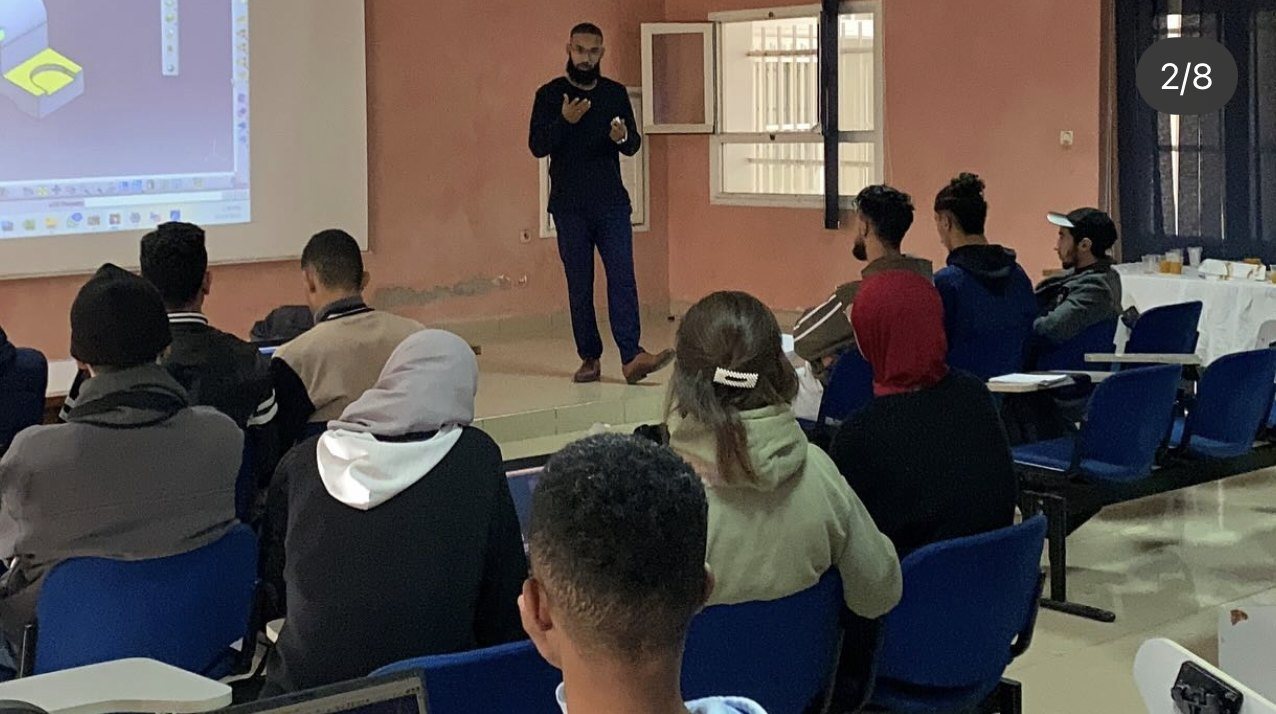
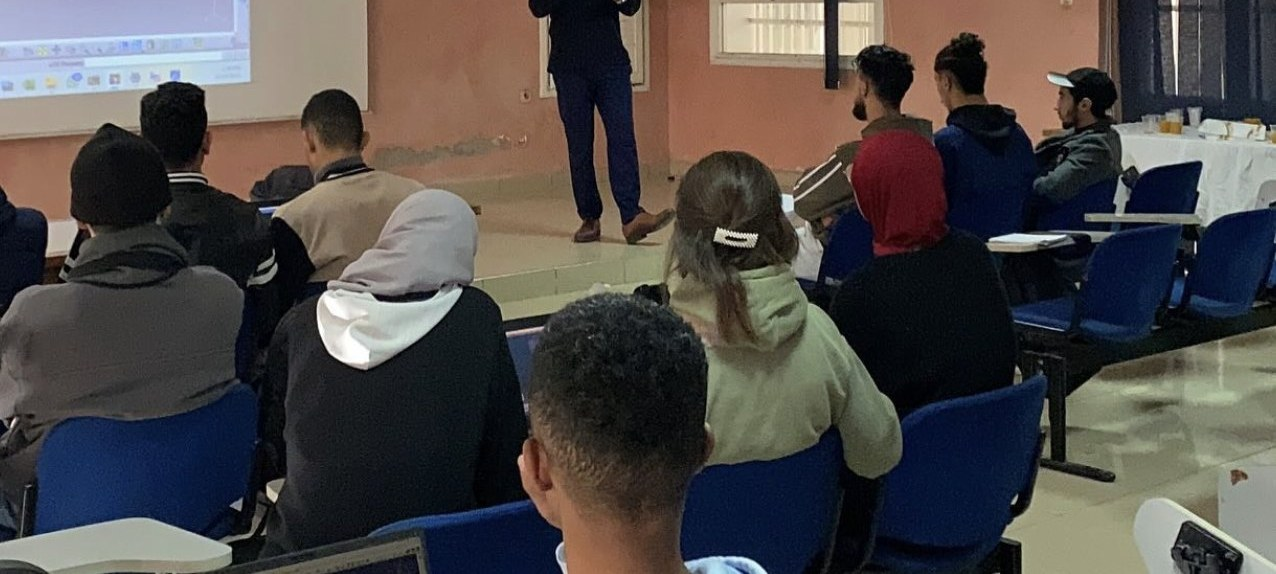
Remove Instagram overlays from photos; add three events
Removes a liker's profile picture and Instagram buttons and counters from
the event images. Adds the « Femmes Leaders à l'ère de l'IA » conference,
the Journée d'Excellence 2026 and the Machine Learning Training.

Claude-Session: https://claude.ai/code/session_01CVVNoWrYmJm1sqwUduYM2t

diff --git a/2ameca-site/src/data/contenus.ts b/2ameca-site/src/data/contenus.ts
@@ -28,8 +28,11 @@ export const CLUB_DEFAUT: Club = {
     { quand: 'Novembre 2025', quoi: '« The Career Workshop » avec Xperience, puis « Cap sur l’Espace ».', detail: 'CV et LinkedIn avec Ali El Harti, puis ingénierie aérospatiale avec Idir Loudaoui, en ligne.' },
     { quand: 'Décembre 2025', quoi: '1re édition de « De l’Amphi à l’Entreprise ».', detail: 'Cinq invités et une journée d’échanges avec des professionnels, à l’amphithéâtre de la FSAC.' },
     { quand: 'Décembre 2025', quoi: 'ANSYS Workshop, puis RISE : « Votre plan de carrière en 180 minutes ».', detail: 'Simulation avec Ayoub Elmouhri (Analytics Systems Africa), puis carrière avec Mohamed Reffadi (You & Me Consulting).' },
+    { quand: 'Mars 2026', quoi: 'Conférence « Femmes Leaders à l’ère de l’Intelligence Artificielle ».', detail: 'Pour la Journée internationale des droits des femmes, avec le Club Santé et d’autres clubs de la FSAC.' },
+    { quand: 'Avril 2026', quoi: '« Machine Learning Training » avec El Mehdi Lghaouch.', detail: 'Deux séances intensives en salle digitale de la FSAC, dans la série NEXTGEN AI, avec l’AI & DEV Community et la FSBM.' },
     { quand: 'Avril 2026', quoi: 'Formation Data Mining avec l’AI & DEV Community.', detail: 'Une séance de la série « NEXTGEN AI: Morocco Tech Series », en salle 17 de la FSAC.' },
     { quand: 'Octobre 2026', quoi: 'Journées portes ouvertes d’intégration.', detail: 'Trois jours pour accueillir les nouveaux étudiants de l’année 2026–2027.' },
+    { quand: 'Novembre 2026', quoi: '1re Journée d’Excellence 2AMECA.', detail: 'Rencontres, partage d’expériences, jeux et challenges, à l’amphithéâtre de la FSAC.' },
   ],
   valeurs: [
     { titre: 'Esprit citoyen', texte: 'Mettre nos compétences au service de la faculté et de la société : c’est le sens de notre devise.' },

diff --git a/2ameca-site/src/content/evenements/femmes-leaders-ia-2026.md b/2ameca-site/src/content/evenements/femmes-leaders-ia-2026.md
@@ -1,0 +1,30 @@
+---
+titre: "Femmes Leaders à l'ère de l'Intelligence Artificielle"
+resume: "Une conférence pour la Journée internationale des droits des femmes : « Inspirer, Innover, Transformer », organisée à la FSAC avec le Club Santé et huit autres clubs, dont 2AMECA."
+dateDebut: 2026-03-13
+lieu: "Faculté des Sciences Aïn Chock"
+programme:
+  - "La place des femmes dans les secteurs technologiques"
+  - "Dépasser les obstacles pour accéder à des postes de leadership"
+  - "L'impact de l'intelligence artificielle sur les métiers de demain"
+  - "Le rôle de l'engagement et de l'entrepreneuriat dans la transformation de la société"
+anneeUniversitaire: "2025–2026"
+affiche: ./images/femmes-leaders-ia-2026.jpg
+afficheAlt: "L'amphithéâtre de la FSAC rempli pendant la conférence, avec les invitées sur scène."
+---
+
+À l'occasion de la **Journée internationale des droits des femmes**, la Faculté des Sciences Aïn Chock a accueilli la conférence **« Femmes Leaders à l'ère de l'Intelligence Artificielle : Inspirer, Innover, Transformer »**, organisée par le **Club Santé FSAC** avec plusieurs clubs de la faculté, dont **2AMECA**.
+
+Les invitées d'honneur ont partagé leurs parcours, leurs défis et leurs visions, en mettant en lumière l'importance du leadership féminin, de l'innovation et de l'adaptation face aux avancées de l'intelligence artificielle.
+
+## Les invitées
+
+- **Pr. Hayar Aawatif**, ancienne ministre de la Solidarité, de l'Insertion sociale et de la Famille
+- **Mme Doukkali Leila**, présidente de l'Association des Femmes Entrepreneurs du Maroc (AFEM)
+- **Mme Khadija Kharti**, intervenue à distance
+
+## Les clubs organisateurs
+
+Club Santé FSAC, 2AMECA, Geosciences Union, Club de Lecture, Enactus FSAC Casablanca, Science & Beyond et d'autres clubs de la faculté.
+
+Merci à Monsieur le Doyen pour son appui et son engagement envers la vie universitaire, à **Madame Miyara**, vice-doyenne chargée de la pédagogie, et à **Madame El Khalfi** pour leur soutien constant, ainsi qu'à toutes les intervenantes et à tous ceux qui ont contribué à la réussite de cet événement.

diff --git a/2ameca-site/src/content/evenements/journee-excellence-2026.md b/2ameca-site/src/content/evenements/journee-excellence-2026.md
@@ -1,0 +1,21 @@
+---
+titre: "Journée d'Excellence 2AMECA"
+resume: "La toute première Journée d'Excellence du club : un jour pour s'inspirer, évoluer et exceller, avec des rencontres, des partages d'expériences, des jeux et des challenges."
+dateDebut: 2026-11-14
+heure: "09:00"
+lieu: "FSAC — Amphithéâtre"
+lieuDetail: "à côté de la buvette"
+programme:
+  - "Des rencontres enrichissantes"
+  - "Un partage d'expériences inspirant"
+  - "Des jeux et des challenges"
+anneeUniversitaire: "2026–2027"
+affiche: ./images/journee-excellence-2026.jpg
+afficheAlt: "Affiche « You are invited » de la Journée d'Excellence 2AMECA : samedi 14 novembre, 9h00, FSAC."
+---
+
+**Unis par l'excellence.** Et si vous preniez un jour pour vous inspirer, évoluer et exceller ? Le Club 2AMECA vous invite à sa toute première **Journée d'Excellence**, le **samedi 14 novembre à 9h00**, à l'amphithéâtre de la FSAC (à côté de la buvette).
+
+Au programme : des rencontres enrichissantes, un partage d'expériences inspirant, des jeux et des challenges… et bien plus encore.
+
+Invitez votre entourage et venez nombreux : une journée à ne pas manquer !

diff --git a/2ameca-site/src/content/projets/machine-learning-training-nextgen-ai.md b/2ameca-site/src/content/projets/machine-learning-training-nextgen-ai.md
@@ -1,0 +1,16 @@
+---
+titre: "Machine Learning Training — NEXTGEN AI"
+type: "Formation"
+resume: "Deux séances intensives de machine learning en salle digitale de la FSAC, animées par El Mehdi Lghaouch, dans la série « NEXTGEN AI: Morocco Tech Series » avec l'AI & DEV Community et la FSBM."
+date: 2026-04-23
+statut: "Terminé"
+membres: []
+couverture: ./images/ml-training-2026.jpg
+couvertureAlt: "Affiche du Machine Learning Training avec El Mehdi Lghaouch, les 23 et 25 avril en salle digitale de la FSAC."
+---
+
+Étape de la série **NEXTGEN AI: Morocco Tech Series** — *Building the future of AI in Morocco* —, le **Machine Learning Training** a réuni les participants les **23 et 25 avril** en **salle digitale de la FSAC** pour une formation intensive.
+
+La formation était animée par **El Mehdi Lghaouch**, doctorant en data science et intelligence artificielle.
+
+Elle était co-organisée par le Club 2AMECA, l'**AI & DEV Community**, la Faculté des Sciences Aïn Chock et la **Faculté des Sciences Ben M'Sick** (Université Hassan II de Casablanca).
